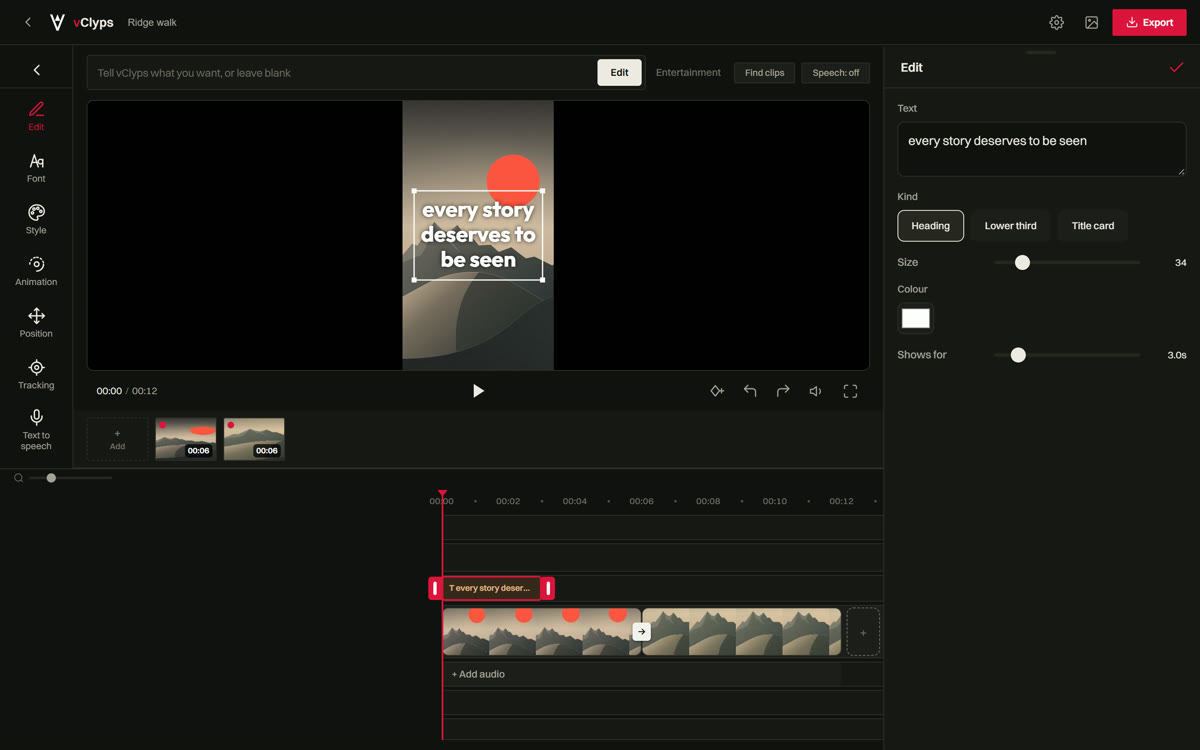
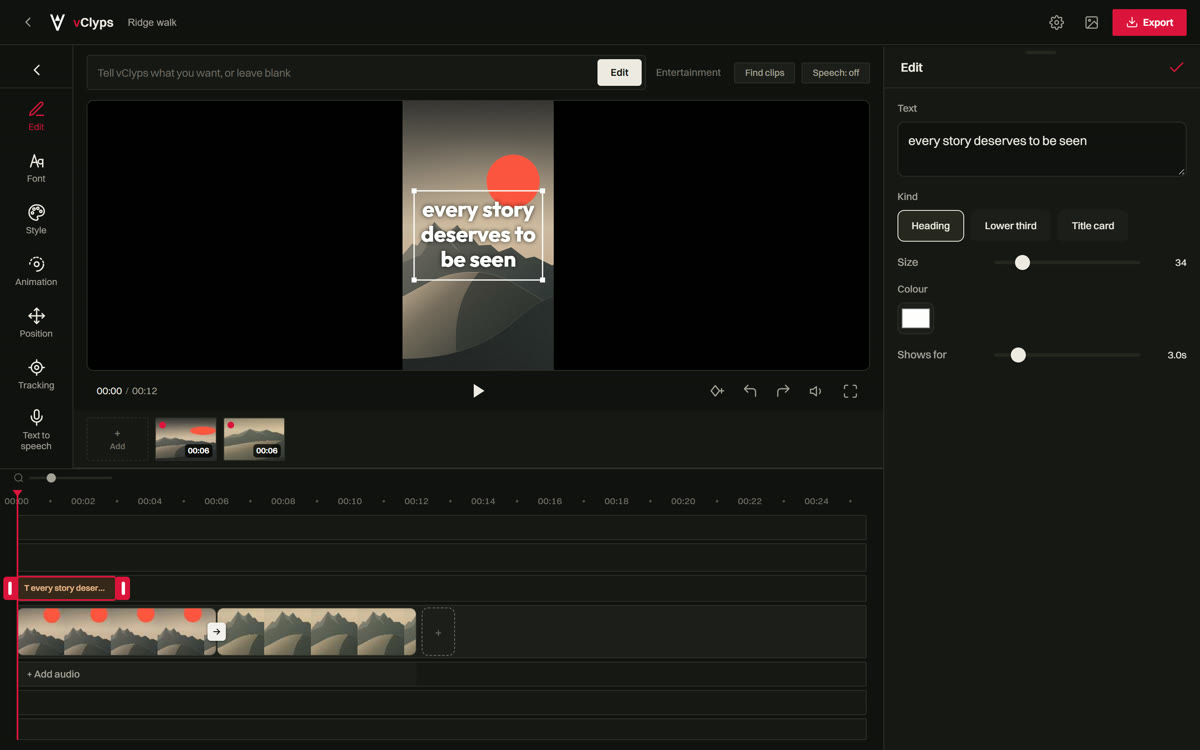
vClyps 0.66.1: desktop timeline starts at the left, playhead travels
On a wide window with a mouse the timeline is CapCut's desktop one: no half-screen of empty padding, click to seek, the wheel only looks along the edit, zoom keeps the playhead in place. Phones keep the centred playhead. Site screenshot re-shot.

diff --git a/version.js b/version.js
@@ -60,9 +60,9 @@
 (function (global) {
   "use strict";
 
-  var VERSION = "0.66.0";
+  var VERSION = "0.66.1";
   var RELEASED = "2026-11-01";
-  var NOTES = "New: a new home page. It says what vClyps does in one line, shows the real editor (a screenshot, not an illustration), then how it works, what is in the editor and the privacy line, with one Start editing button. The 3D film ribbon, scroll animations, film grain, the button that followed the pointer and the shutter between screens are gone, so the page opens instantly and is lighter to download. 0.65.0: New: 59 sound effects (was 20), every one a real recording released free for any use (CC0): boing, bonk, slide whistle, punch, slap, glass break, explosion, thunder, heartbeat, ticking, alarm, phone buzz, message ping, typing, mouse click, typewriter, door knock and creak, footsteps, crowd cheer, boo, aww and ooh, swipe, bubbles, splash, wind, rain, birdsong, rewind, glitch, level up, success, error, dog bark, ta-da, car horn, bell and a soft swoosh. The sound sheet has CapCut's group tabs (Transitions, Impacts, Cartoon, Crowd, Game and phone, Everyday, Nature), and a sound downloads only when it is first used. 0.64.0: New: overlays stack in layers, as in CapCut: several videos and photos can be on screen at once, each on its own lane in the timeline (Arrange has Layer). And Collage, after Overlay: pick a layout (two side by side, two stacked, one big and two small, 2 x 2, diagonal), choose 2 to 4 videos or photos, set Border and Rounded, and each one lands in its cell as an ordinary overlay you can still adjust. 0.63.0: New: British voices for Text to speech: Emma, Isabella, George and Fable, read with British pronunciation (no rolled r after vowels, BATH words, schedule, tomato, aluminium, one hundred and five) and British spellings (colour, centre). Pounds are read as pounds (£3.50 is three pounds fifty) for every voice. 0.62.0: New: Remove background, Tap to choose, as CapCut: tap any object (a dog, a car, a product), not only a person, and add or erase points until it is right; vClyps finds it through the clip once (about 10 seconds for each second of video on a computer with good graphics, longer without) and keeps only that thing. Works on clips and overlays, the same in the preview and the export. 0.61.0: New: Smooth slow motion, in Speed when a clip is slowed down, as CapCut's Smooth slow-mo: instead of showing each frame twice, vClyps makes new frames in between (blended from the real ones around each moment) and stretches the sound without changing its pitch, so slow motion glides. Made once on your device; Off brings the original back. 0.60.0: New: many more text animations (67 in, 54 out, 41 loop: swooshes with motion blur, mask reveals, typewriters, letter-by-letter grow, flip, swing and bounce, neon flicker, spiral, slam and more) and 80 text templates (was 40): chapter titles, editorial lower thirds, subscribe and follow cards, quote cards, step and stat cards, prices, offers, promo codes and coming soon. Every template now fits inside the safe area of a 9:16 video (30 older ones were too wide and are now resized). 0.59.0: New: Auto reframe, beside Stabilize in a video clip's tools as in CapCut. Landscape video in a 9:16 (or square) edit no longer sits still: the frame follows the person's face, or the action when there is no face, with a calm, smooth pan. AI edits do this by themselves for wide clips, from the motion already measured. 0.58.0: New: Auto lyrics, in Text next to Captions and in a song's tools as in CapCut: add your song (Audio, Your audio), tap Auto lyrics, and its words appear as captions timed to the singing, in your caption style. Made on your device with the same model as Captions; fix any misheard word in Captions. 0.57.0: New: Enhance voice, next to Reduce noise on a video or audio clip as in CapCut: one tap makes speech clearer and fuller (rumble and boxiness out, words brought forward, loud and quiet evened out), with a Strength slider. It works with any voice effect, and the preview and export sound the same. AI edits turn it on gently for clips with speech. 0.56.0: New: the word on a button sticker is yours. Select Subscribe, Follow, Like, Sale, Live, Watch or any other word sticker, open Sticker, and type in Words: the button grows to fit. 0.55.0: New: 40 more sticker shapes (65 in all): double, elbow and sketched arrows, highlight swipes, scribble circles and boxes, sharp, round and shout speech bubbles, callouts, Sale, Live, Share, Save, Comment and Watch tags, a price tag, star ratings from one to five, frames and brackets. And 7 more voice effects (23 in all): Giant, Baby, Higher, Lower, Walkie-talkie, Stadium and Bathroom, each with its own drawing. 0.54.0: New: Position for a clip, in its tools after Canvas: move it across and down, zoom it and turn it. Each works with the keyframe diamond, so a slow push in or a drift across the frame is two taps and a slider. The same in the preview and the export. 0.53.0: New: the AI uses video effects. When a moment earns it, an AI edit adds up to two short effects (impact or a freeze flash on a punchline, speed lines on action, film grain on a memory, a light leak on a golden moment, confetti on a celebration), never on the hook and never in a serious video. They sit on the effects lane like your own, and a new AI edit replaces only its own. 0.52.0: New: 100 video effects (was 38) and 80 transitions (was 57). New effect groups Lens (bulge, tilt shift, lens flare, kaleidoscope...), Light (sun rays, neon flicker, prism, stage lights...), Motion (zoom blur, motion echo, speed lines, impact...) and Party (disco lights, balloons, hearts, streamers, fireworks...), plus more Retro, Glitch and Frame looks (polaroid, film strip, countdown, viewfinder). All drawn on your device, the same in the preview and the export. 0.51.3: Fixes: voice effects on a voiceover or text to speech play in both ears; voice effects no longer leave work running after you change them; a caption no longer hangs over the next clip; a text with a wipe in and a wipe out shows both; text to speech reads money and decimals properly ($1,500, $3.50) and retries a failed voice download; removing a vocabulary word restores the timing; retouch keeps two faces apart; cutout and retouch retry after a failed download; remove background stays steady on sped-up clips; late sound effects are never dropped from a fast export. Look: each voice effect has its own drawing and each text-to-speech voice its own monogram; the empty editor says what to add. 0.51.2: Fixes: a new project no longer reuses the last project's cleaned sound, cutouts or face points; a split or trimmed overlay plays the right part of its video; keyframes and tracking follow a trim, split or speed change; an overlay that moves can be grabbed where you see it; Reduce noise cleans once when you let go of Strength (and frees the old one); an audio clip that starts later plays its cleaned sound; Chroma key picks the overlay's own colour; blurred text exports the same on a phone and a computer; the export waits for emoji, retouch and cutout before it starts; Text to speech recovers from a failed download with Try again. 0.51.1: Polish: on/off settings are real switches at the edge of their row, and Settings reads as a calm list; the export progress bar and its percentage are plainer; a finished export is marked in green (done), not the brand red; the last decorative gradients are gone. 0.51.0: New look, first pass: every size, colour and corner now comes from one design scale; calmer type with no shouting capitals; one red button per screen, and red elsewhere only means selected; chosen options show a white outline as in CapCut; each slider is one row (name, track, value); sheets have CapCut's scrolling word tabs; New project is a clean list; Settings is shorter; messages are one-line receipts above the tools; timeline tracks share one set of colours. On a computer the editor now has its tools in a column on the left and a much bigger picture. 0.50.1: Fixes: a fast export that could not read a clip's sound now switches to the standard export instead of saving a silent video; Undo after removing a file from your library brings the file back too; a transition between two parts of one recording with an overlay of it no longer loses a frame; Split, Freeze and Reverse keep a speed curve's timing exactly; copies made by Split and Duplicate no longer share one mask; Freeze keeps the clip's filter strength, crop and look; the frame shape (1:1, 16:9) survives a reload; a paused preview shows the exact frame when you scrub; Undo is kept after a crash. 0.50.0: New: templates (first stage). Save as template, at the end of the editor's tool bar, " +
+  var NOTES = "Fix: on a computer the timeline no longer leaves its left half empty. As in CapCut's desktop editor it starts at the left edge and the playhead moves along it: click the ruler or any empty part of the timeline to move the playhead there, the scroll wheel looks along the edit without moving it, zooming keeps it where it is, and while it plays the view turns the page. Phones and tablets keep the playhead in the middle. 0.66.0: New: a new home page. It says what vClyps does in one line, shows the real editor (a screenshot, not an illustration), then how it works, what is in the editor and the privacy line, with one Start editing button. The 3D film ribbon, scroll animations, film grain, the button that followed the pointer and the shutter between screens are gone, so the page opens instantly and is lighter to download. 0.65.0: New: 59 sound effects (was 20), every one a real recording released free for any use (CC0): boing, bonk, slide whistle, punch, slap, glass break, explosion, thunder, heartbeat, ticking, alarm, phone buzz, message ping, typing, mouse click, typewriter, door knock and creak, footsteps, crowd cheer, boo, aww and ooh, swipe, bubbles, splash, wind, rain, birdsong, rewind, glitch, level up, success, error, dog bark, ta-da, car horn, bell and a soft swoosh. The sound sheet has CapCut's group tabs (Transitions, Impacts, Cartoon, Crowd, Game and phone, Everyday, Nature), and a sound downloads only when it is first used. 0.64.0: New: overlays stack in layers, as in CapCut: several videos and photos can be on screen at once, each on its own lane in the timeline (Arrange has Layer). And Collage, after Overlay: pick a layout (two side by side, two stacked, one big and two small, 2 x 2, diagonal), choose 2 to 4 videos or photos, set Border and Rounded, and each one lands in its cell as an ordinary overlay you can still adjust. 0.63.0: New: British voices for Text to speech: Emma, Isabella, George and Fable, read with British pronunciation (no rolled r after vowels, BATH words, schedule, tomato, aluminium, one hundred and five) and British spellings (colour, centre). Pounds are read as pounds (£3.50 is three pounds fifty) for every voice. 0.62.0: New: Remove background, Tap to choose, as CapCut: tap any object (a dog, a car, a product), not only a person, and add or erase points until it is right; vClyps finds it through the clip once (about 10 seconds for each second of video on a computer with good graphics, longer without) and keeps only that thing. Works on clips and overlays, the same in the preview and the export. 0.61.0: New: Smooth slow motion, in Speed when a clip is slowed down, as CapCut's Smooth slow-mo: instead of showing each frame twice, vClyps makes new frames in between (blended from the real ones around each moment) and stretches the sound without changing its pitch, so slow motion glides. Made once on your device; Off brings the original back. 0.60.0: New: many more text animations (67 in, 54 out, 41 loop: swooshes with motion blur, mask reveals, typewriters, letter-by-letter grow, flip, swing and bounce, neon flicker, spiral, slam and more) and 80 text templates (was 40): chapter titles, editorial lower thirds, subscribe and follow cards, quote cards, step and stat cards, prices, offers, promo codes and coming soon. Every template now fits inside the safe area of a 9:16 video (30 older ones were too wide and are now resized). 0.59.0: New: Auto reframe, beside Stabilize in a video clip's tools as in CapCut. Landscape video in a 9:16 (or square) edit no longer sits still: the frame follows the person's face, or the action when there is no face, with a calm, smooth pan. AI edits do this by themselves for wide clips, from the motion already measured. 0.58.0: New: Auto lyrics, in Text next to Captions and in a song's tools as in CapCut: add your song (Audio, Your audio), tap Auto lyrics, and its words appear as captions timed to the singing, in your caption style. Made on your device with the same model as Captions; fix any misheard word in Captions. 0.57.0: New: Enhance voice, next to Reduce noise on a video or audio clip as in CapCut: one tap makes speech clearer and fuller (rumble and boxiness out, words brought forward, loud and quiet evened out), with a Strength slider. It works with any voice effect, and the preview and export sound the same. AI edits turn it on gently for clips with speech. 0.56.0: New: the word on a button sticker is yours. Select Subscribe, Follow, Like, Sale, Live, Watch or any other word sticker, open Sticker, and type in Words: the button grows to fit. 0.55.0: New: 40 more sticker shapes (65 in all): double, elbow and sketched arrows, highlight swipes, scribble circles and boxes, sharp, round and shout speech bubbles, callouts, Sale, Live, Share, Save, Comment and Watch tags, a price tag, star ratings from one to five, frames and brackets. And 7 more voice effects (23 in all): Giant, Baby, Higher, Lower, Walkie-talkie, Stadium and Bathroom, each with its own drawing. 0.54.0: New: Position for a clip, in its tools after Canvas: move it across and down, zoom it and turn it. Each works with the keyframe diamond, so a slow push in or a drift across the frame is two taps and a slider. The same in the preview and the export. 0.53.0: New: the AI uses video effects. When a moment earns it, an AI edit adds up to two short effects (impact or a freeze flash on a punchline, speed lines on action, film grain on a memory, a light leak on a golden moment, confetti on a celebration), never on the hook and never in a serious video. They sit on the effects lane like your own, and a new AI edit replaces only its own. 0.52.0: New: 100 video effects (was 38) and 80 transitions (was 57). New effect groups Lens (bulge, tilt shift, lens flare, kaleidoscope...), Light (sun rays, neon flicker, prism, stage lights...), Motion (zoom blur, motion echo, speed lines, impact...) and Party (disco lights, balloons, hearts, streamers, fireworks...), plus more Retro, Glitch and Frame looks (polaroid, film strip, countdown, viewfinder). All drawn on your device, the same in the preview and the export. 0.51.3: Fixes: voice effects on a voiceover or text to speech play in both ears; voice effects no longer leave work running after you change them; a caption no longer hangs over the next clip; a text with a wipe in and a wipe out shows both; text to speech reads money and decimals properly ($1,500, $3.50) and retries a failed voice download; removing a vocabulary word restores the timing; retouch keeps two faces apart; cutout and retouch retry after a failed download; remove background stays steady on sped-up clips; late sound effects are never dropped from a fast export. Look: each voice effect has its own drawing and each text-to-speech voice its own monogram; the empty editor says what to add. 0.51.2: Fixes: a new project no longer reuses the last project's cleaned sound, cutouts or face points; a split or trimmed overlay plays the right part of its video; keyframes and tracking follow a trim, split or speed change; an overlay that moves can be grabbed where you see it; Reduce noise cleans once when you let go of Strength (and frees the old one); an audio clip that starts later plays its cleaned sound; Chroma key picks the overlay's own colour; blurred text exports the same on a phone and a computer; the export waits for emoji, retouch and cutout before it starts; Text to speech recovers from a failed download with Try again. 0.51.1: Polish: on/off settings are real switches at the edge of their row, and Settings reads as a calm list; the export progress bar and its percentage are plainer; a finished export is marked in green (done), not the brand red; the last decorative gradients are gone. 0.51.0: New look, first pass: every size, colour and corner now comes from one design scale; calmer type with no shouting capitals; one red button per screen, and red elsewhere only means selected; chosen options show a white outline as in CapCut; each slider is one row (name, track, value); sheets have CapCut's scrolling word tabs; New project is a clean list; Settings is shorter; messages are one-line receipts above the tools; timeline tracks share one set of colours. On a computer the editor now has its tools in a column on the left and a much bigger picture. 0.50.1: Fixes: a fast export that could not read a clip's sound now switches to the standard export instead of saving a silent video; Undo after removing a file from your library brings the file back too; a transition between two parts of one recording with an overlay of it no longer loses a frame; Split, Freeze and Reverse keep a speed curve's timing exactly; copies made by Split and Duplicate no longer share one mask; Freeze keeps the clip's filter strength, crop and look; the frame shape (1:1, 16:9) survives a reload; a paused preview shows the exact frame when you scrub; Undo is kept after a crash. 0.50.0: New: templates (first stage). Save as template, at the end of the editor's tool bar, " +
               "keeps your edit's cuts, looks, transitions, texts, stickers, effects, sounds and library " +
               "music (never your footage) on this device and as a file to share. On New project, From a " +
               "template lists them (or opens a shared file): choose your own videos and photos and the " +

diff --git a/app.js b/app.js
@@ -3283,8 +3283,9 @@
 
     /* Half a viewport of padding at each end so the first and last frame can
        both sit under a centred playhead — the same reason CapCut lets you
-       scroll past both ends of your edit. */
-    $("tlInner").style.padding = "0 " + padL() + "px";
+       scroll past both ends of your edit. On a computer the edit starts at
+       the left edge instead (deskTimeline), with room to drop clips after it. */
+    $("tlInner").style.padding = "0 " + (deskTimeline() ? DESK_PAD_R : padL()) + "px 0 " + padL() + "px";
 
     /* The ruler, as CapCut spaces it: a time every so often, never closer
        than about 70px apart, and a single dot halfway between. No tick
@@ -3858,10 +3859,10 @@
   (function dragToScrub() {
     const sc = $("tlScroll");
     let down = false, x0 = 0, s0 = 0, moved = false;
-    let touch = false;
+    let touch = false, lastDownX = null;
     sc.addEventListener("pointerdown", (e) => {
       if (e.target.closest(".clip, .tclip, .oclip, .aclip, .uclip, .mclip, .clip-add, .lane-add, .cut-btn, .handle, .ruler")) return;
-      down = true; moved = false; x0 = e.clientX; s0 = sc.scrollLeft;
+      down = true; moved = false; x0 = e.clientX; s0 = sc.scrollLeft; lastDownX = e.clientX;
       touch = e.pointerType === "touch";
     });
     window.addEventListener("pointermove", (e) => {
@@ -3880,6 +3881,12 @@
          "nothing here" everywhere else in the app. */
       if (down && !moved) {
         S.sel = null;
+        // on a computer, as in CapCut's desktop editor, the click also puts the playhead there
+        if (deskTimeline() && lastDownX != null) {
+          const x = lastDownX - $("tlInner").getBoundingClientRect().left - padL();
+          S.time = clamp(x / S.pps, 0, total());
+          syncNow();
+        }
         renderTimeline();
         renderInspector();
       }
@@ -3897,7 +3904,7 @@
   /* Scroll position IS the playhead position. One listener closes the loop, so
      a flick, a trackpad, a scrollbar and the drag above all scrub identically. */
   $("tlScroll").addEventListener("scroll", () => {
-    if (scrollLock || S.playing) return;
+    if (scrollLock || S.playing || deskTimeline()) return;   // on a computer, scrolling only looks along the edit
     const t = clamp($("tlScroll").scrollLeft / S.pps, 0, total());
     if (Math.abs(t - S.time) < 0.0005) return;
     S.time = t;
@@ -3908,10 +3915,7 @@
     $("playhead").style.left = padL() + S.time * S.pps + "px";
   });
 
-  $("zoomSlider").addEventListener("input", () => {
-    S.pps = +$("zoomSlider").value;
-    renderTimeline();
-  });
+  $("zoomSlider").addEventListener("input", () => zoomTimeline(+$("zoomSlider").value));
 
   /* One way to zoom, for every gesture that zooms (the slider, a pinch, Ctrl
      or Cmd with the wheel or +/-): the playhead stays where it is and the
@@ -3920,9 +3924,15 @@
   function zoomTimeline(pps) {
     const next = clamp(pps, PPS_MIN, PPS_MAX);
     if (Math.abs(next - S.pps) < 0.01) return;
+    const sc = $("tlScroll"), onScreen = padL() + S.time * S.pps - sc.scrollLeft;
     S.pps = next;
     $("zoomSlider").value = String(Math.round(next));
     renderTimeline();   // ends in updatePlayheadUI, which re-centres on the playhead
+    if (deskTimeline()) {
+      scrollLock = true;
+      sc.scrollLeft = Math.max(0, padL() + S.time * S.pps - onScreen);
+      requestAnimationFrame(() => { scrollLock = false; });
+    }
   }
 
   /* ═══════════ TOUCH AND WHEEL, THE CAPCUT WAY (2026-10-22) ═══════════
@@ -10687,13 +10697,43 @@
      makes dragging the timeline scrub (see the scroll listener below). */
   let scrollLock = false;      // true while WE move the scroll, so the listener stays quiet
 
+  /* On a computer (wide window, mouse) the timeline is CapCut's desktop one:
+     it starts at the left edge and the playhead travels along it, so half
+     the panel is no longer empty space before 00:00. A click on the ruler or
+     on empty timeline moves the playhead; the wheel only looks along the
+     edit; while it plays, the view turns the page when the playhead nears
+     the right edge. Phones and tablets keep the centred playhead. */
+  const DESK_TL = window.matchMedia("(min-width: 1200px) and (hover: hover) and (pointer: fine)");
+  const DESK_PAD_R = 240;
+  function deskTimeline() { return DESK_TL.matches; }
+  if (DESK_TL.addEventListener) DESK_TL.addEventListener("change", () => {
+    if ($("screen-editor").classList.contains("active")) { deskShown = -1; renderTimeline(); }
+  });
+  let deskShown = -1;          // the time the desktop view last followed
+
   function padL() {
+    if (deskTimeline()) return PADX;
     return Math.max(PADX, Math.round($("tlScroll").clientWidth / 2));
   }
 
   function updatePlayheadUI() {
     const sc = $("tlScroll");
     $("playhead").style.left = padL() + S.time * S.pps + "px";
+    if (deskTimeline()) {
+      // follow the playhead only when it moved (an edit's redraw leaves the view where you put it)
+      if (S.time === deskShown) return;
+      deskShown = S.time;
+      const x = padL() + S.time * S.pps, w = sc.clientWidth;
+      let to = null;
+      if (S.playing) { if (x > sc.scrollLeft + w - 60 || x < sc.scrollLeft) to = x - 60; }
+      else if (x < sc.scrollLeft + 20 || x > sc.scrollLeft + w - 20) to = x - w / 3;
+      if (to != null) {
+        scrollLock = true;
+        sc.scrollLeft = Math.max(0, to);
+        requestAnimationFrame(() => { scrollLock = false; });
+      }
+      return;
+    }
     const want = S.time * S.pps;
     if (Math.abs(sc.scrollLeft - want) > 0.5) {
       scrollLock = true;
